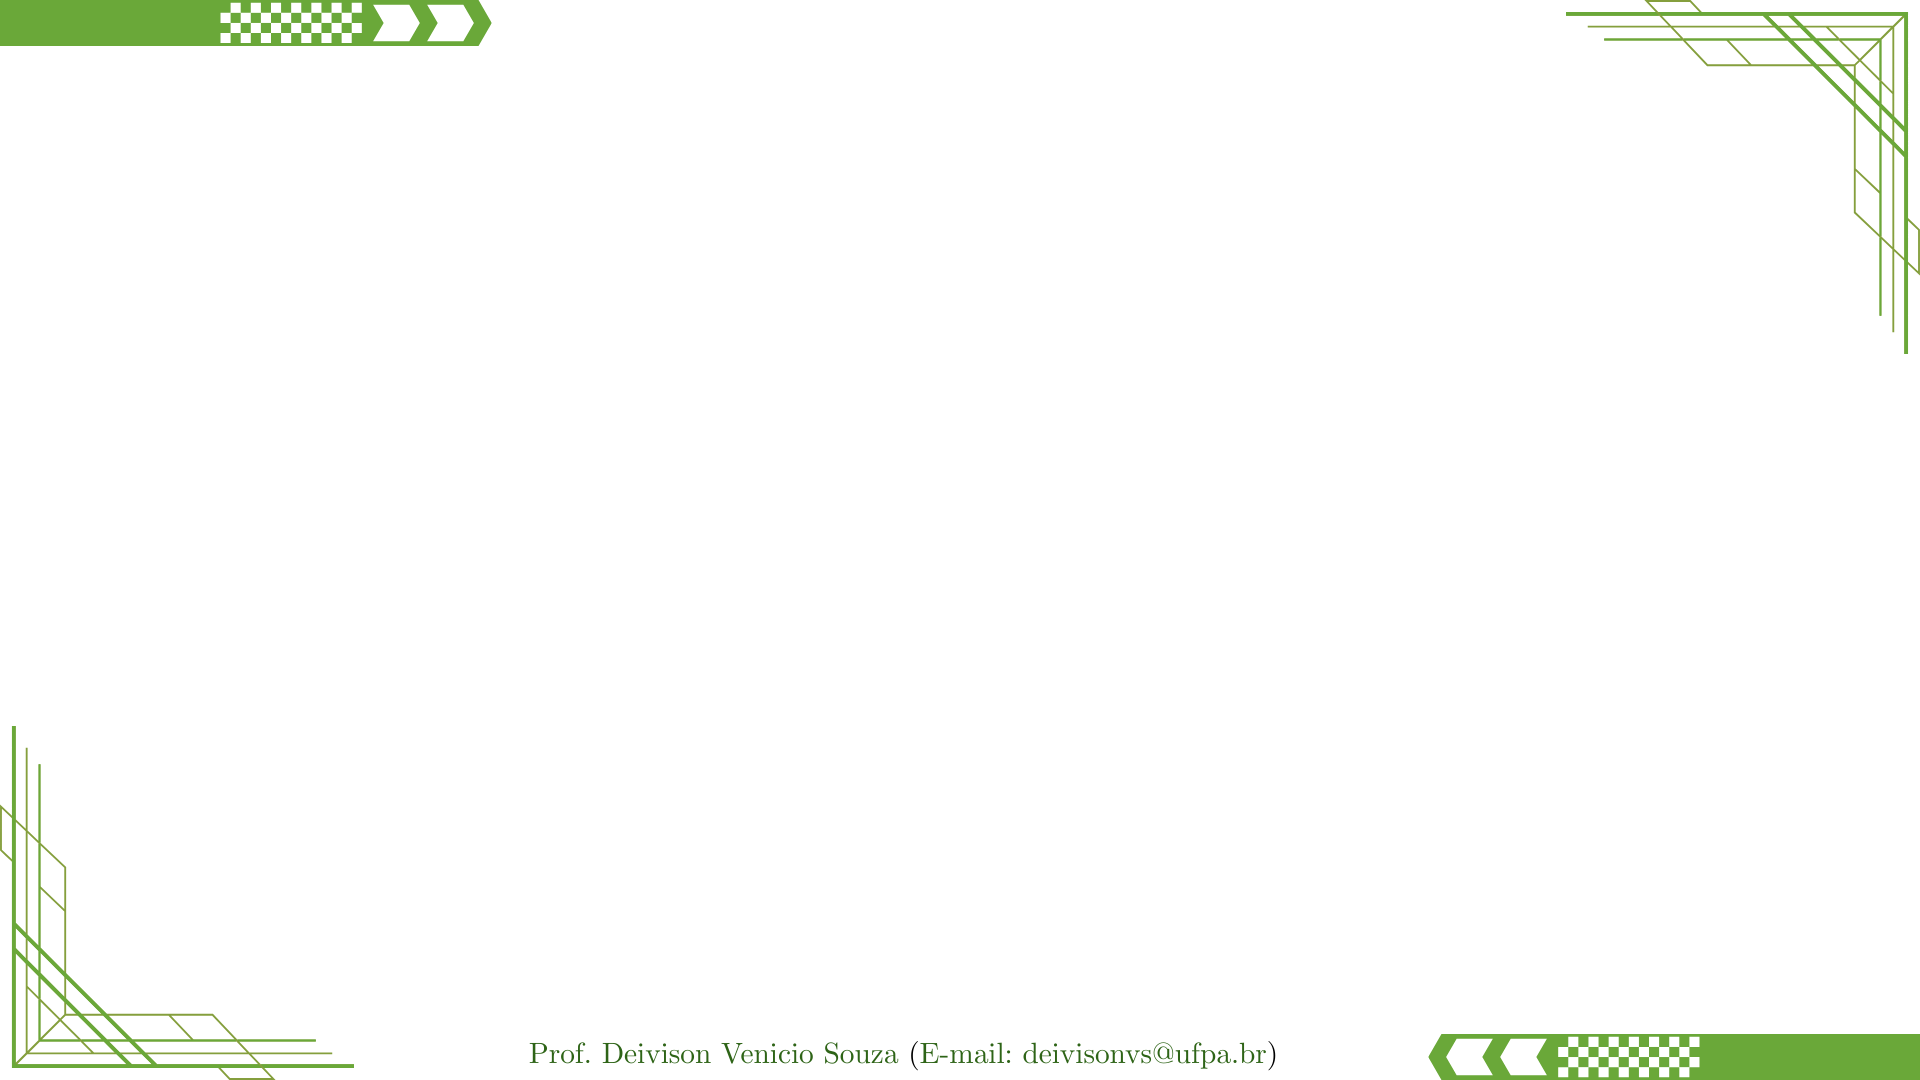
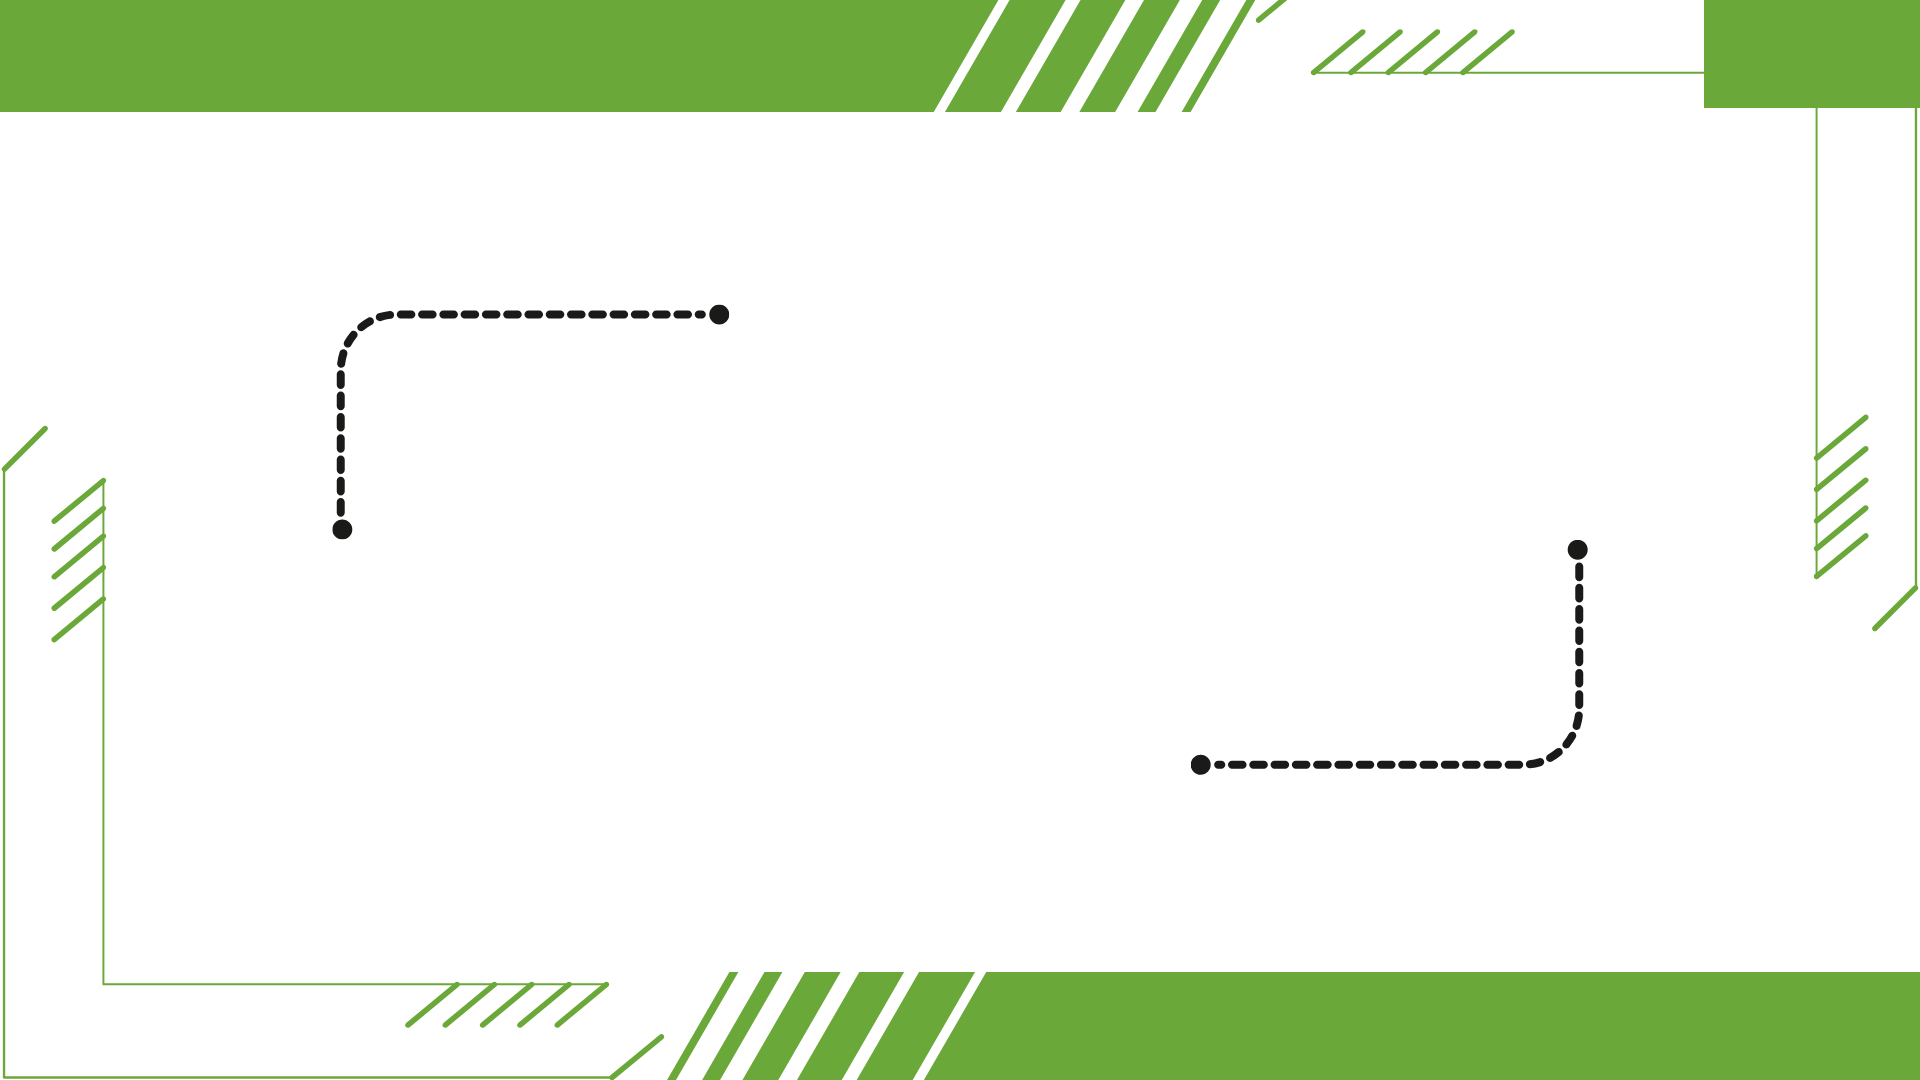
Update

diff --git a/Slides/assets/my-theme.css b/Slides/assets/my-theme.css
@@ -3,11 +3,10 @@
  ************/
 
 .inverse, .hljs-github {
-  background-image: url("fig/sec2.png"); /* Change this to the url of the image you want as your background */
+  /* background-image: url("fig/sec2.png");*/ /* Change this to the url of the image you want as your background */
+  background-color: #ffffff;
   background-size: cover;
 }
-
-
 
 .remark-slide-content {
   padding-top: 5px;
@@ -24,7 +23,7 @@
 .remark-slide-number {
   color: black;
   font-weight: bold;
-  font-size: 10pt;
+  font-size: 12pt;
   margin-bottom: -5px;
   margin-right: 10px;
 }
@@ -251,13 +250,48 @@ div.my-footer span {
 
 /* Change default inverse background colour */
 .inverse {
-  background-color: black;
-  text-shadow: none;
+  background-color: #ffffff;
   color: black;
+  text-shadow: none;
+  text-align: center;
+  vertical-align: middle;
 }
+
+.inverse h1 {
+  color: black; /* first of type is master brand red */
+  font-size: 40px;
+  font-weight: bold;
+  padding-top: 30px;
+  padding-left: 0px;
+  padding-right: 0px;
+  padding-bottom: 50px;
+  margin-left: 0px;
+  margin-top: 0px;
+  text-align: center;
+  vertical-align: middle;
+}
+
+.inverse h3 {
+  font-size: 28px;
+  font-weight: normal;
+  font-family: 'sans-serif';
+  color: #00cc00;
+  padding-left: 100px;
+  padding-right: 100px;
+  margin: 0px;
+  line-height: 1;
+  text-align: left;
+  margin-left: 70px;
+  margin-left: 0px;
+  text-align: center;
+  vertical-align: middle;
+}
+
+
 .inverse .remark-slide-number {
   display: none;
 }
+
 /* background colour classes */
 .sydney-blue {
   background-color: #0148A4;
@@ -642,15 +676,6 @@ slides > slide {
 }
 
 
-.remark-slide-content {
-      background-image: url("path/to/your/image.png"); /* Replace with your image path */
-      background-size: cover; /* Adjust as needed: cover, contain, 100% 100%, etc. */
-      background-repeat: no-repeat; /* Prevents image from repeating if smaller than slide */
-      background-position: center center; /* Adjust as needed: top left, center, etc. */
-}
-
-
-
 /*~~~~~~~~~~~~~~~~*/
 /* USYD additions */
 /*~~~~~~~~~~~~~~~~*/
@@ -691,6 +716,7 @@ slides > slide {
 .title-slide h2 {
   color: #008000 !important; /* first of type is master brand red */
   font-size: 35px;
+  font-family: 'sans-serif';
   font-weight: bold;
   padding-top: 30px;
   padding-left: 100px;
@@ -706,6 +732,7 @@ slides > slide {
 .title-slide h3 {
   font-size: 28px;
   font-weight: normal;
+  font-family: 'sans-serif';
   color: #00cc00;
   padding-left: 100px;
   padding-right: 100px;

diff --git a/Slides/01-CNN-Flora.html b/Slides/01-CNN-Flora.html
@@ -59,11 +59,11 @@ background-size: 130px, 110px, 150px, 130px, cover
 ##### 👨🏻👩🏻👦🏻👦🏻 [@lmftca_ufpa](https://www.instagram.com/lmftca_ufpa/)
 ##### 🌎 [https://www.lmftca.com.br/](https://www.lmftca.com.br/)
 &lt;br&gt;
-##### 1ª versão: 08/setembro/2025 &lt;br&gt; (Atualizado em: 15/agosto/2025) &lt;br&gt; Altamira, Pará
+##### 1ª versão: 08/setembro/2025 &lt;br&gt; (Atualizado em: 16/agosto/2025) &lt;br&gt; Altamira, Pará
 
 ---
 layout: true
-background-image:  url(fig/LMFTCA.png), url(fig/sec.png)
+background-image:  url(fig/LMFTCA.png), url(fig/cont.png)
 background-position: 99% 94%
 background-size: 100px, cover
 
@@ -131,13 +131,20 @@ background-size: 100px, cover
 
 &lt;!-- Slide XX --&gt;
 ---
-layout: true
-name: if
+class: inverse
+layout: false
+background-image: url(fig/sec.png)
 background-size: cover
 
-.font150[**Redes Neurais Convolucionais** &lt;br&gt; (Conceitos e fundamentação teórica)]
 
+## **Redes Neurais Convolucionais**
+### (Conceitos e fundamentação teórica)
 
+---
+layout: true
+background-image:  url(fig/LMFTCA.png), url(fig/cont.png)
+background-position: 99% 94%
+background-size: 100px, cover
 ---
 name: ma
 ## 🌳 Métodos de Amostragem

diff --git a/Slides/assets/sydney-fonts.css b/Slides/assets/sydney-fonts.css
@@ -14,7 +14,6 @@ https://www.slant.co/versus/224/287/~source-code-pro_vs_roboto-mono
 
 body { 
   font-family: 'Roboto', 'Arial', sans-serif;
-  background-image: url('fig/sec2.png');
 }
 h1, h2, h3, h4, h5 {
   font-family: 'sans-serif';
